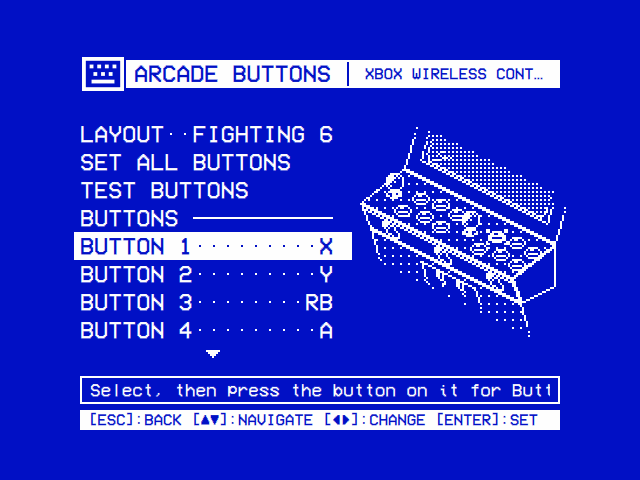
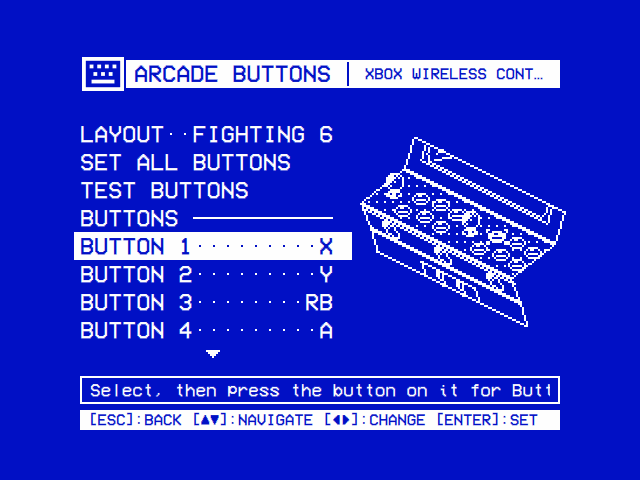
feat: Arcade Buttons draws the cabinet in plain lines, without the fade
The Arcade Buttons drawing faded the cabinet out above and below the
panel in a dither, filled the screen's glass with dotted lines and the
cabinet's front with dots, and drew the panel's right end as a wedge.
The cabinet is now plain line art: the foot of the monitor and the front
under the panel are drawn whole and outlined, 14 cells of each, without
the fade or the dots, and the panel's right end is left open. The
drawing is 103 by 95 cells.

The two Arcade Buttons screenshots are retaken; Controls and ARCHITECTURE
no longer describe the fade.

diff --git a/views/Components/ArcadePanelArt.js b/views/Components/ArcadePanelArt.js
@@ -9,9 +9,8 @@
 // front leans back as it goes down: on it, below a chrome strip, three round
 // buttons, 1P START, COIN and 2P START. Behind the panel the monitor leans
 // back, its bezel round the foot of the screen; under it the cabinet's front,
-// leaning back too, goes down past the top of the coin door. The cabinet
-// fades out above and below. One player's side can be lit: a button, COIN or
-// that player's START.
+// leaning back too, goes down past the top of the coin door. One player's
+// side can be lit: a button, COIN or that player's START.
 //
 // draw() lays it out on a grid of cells, one art pixel each: 0 for none
 // (the ground the host draws on shows), 1 for ink, 2 for the ground drawn
@@ -21,14 +20,14 @@
 
 // The grid.
 var width = 103
-var height = 105
+var height = 95
 
 // Isometric 2:1: along the panel (u, the players' left to right) a cell
 // down for every two right, into it (v, away from the players) a cell up for
 // every two right, z straight up, all in cells. Origin: the panel top's
 // front left corner.
 var originX = 0
-var originY = 38
+var originY = 33
 
 function project(u, v, z) {
     return { x: originX + 2 * u + 2 * v, y: originY + u - v - (z || 0) }
@@ -48,10 +47,10 @@ var strip = 2
 // (lean units at its top) up from the top's back edge, how high; and the
 // front under the panel, leaning back too (belowLean units at its foot) down
 // from the panel front's foot, how low.
-var above = 20
-var lean = 3.5
-var below = 20
-var belowLean = 2.5
+var above = 14
+var lean = 2.5
+var below = 14
+var belowLean = 1.75
 
 // Where things stand on the top (u, v), from the left end of each player's
 // half of it. The buttons' columns follow the fingers: the first a little
@@ -121,20 +120,15 @@ function buttonAt(player, index) {
     return { u: (player - 1) * playerLength + columns[column], v: rows[index < 3 ? 0 : 1] + bend[column] }
 }
 
-// The cells, and for each of the cabinet's the height it stands at (NaN for
-// the rest), which its fade goes by.
+// The cells.
 function Grid(w, h) {
     this.w = w
     this.h = h
     this.cells = new Uint8Array(w * h)
-    this.height = new Float32Array(w * h).fill(NaN)
 }
-// A cell drawn over is no longer the cabinet's.
 Grid.prototype.set = function(x, y, value) {
-    if (x >= 0 && y >= 0 && x < this.w && y < this.h) {
+    if (x >= 0 && y >= 0 && x < this.w && y < this.h)
         this.cells[y * this.w + x] = value
-        this.height[y * this.w + x] = NaN
-    }
 }
 Grid.prototype.get = function(x, y) {
     return x >= 0 && y >= 0 && x < this.w && y < this.h ? this.cells[y * this.w + x] : 0
@@ -158,17 +152,6 @@ Grid.prototype.edge = function(shape) {
         var cx = x + 0.5, cy = y + 0.5
         return !inside(cx - 1, cy) || !inside(cx + 1, cy) || !inside(cx, cy - 1) || !inside(cx, cy + 1) ? 1 : this.get(x, y)
     }.bind(this))
-}
-// The cells of a shape as the cabinet's, at the heights heightAt(x, y)
-// gives, whatever is drawn in them.
-Grid.prototype.tag = function(shape, heightAt) {
-    var box = shape.box
-    for (var y = Math.max(0, Math.floor(box[1])); y <= Math.min(this.h - 1, Math.ceil(box[3])); y++) {
-        for (var x = Math.max(0, Math.floor(box[0])); x <= Math.min(this.w - 1, Math.ceil(box[2])); x++) {
-            if (shape.inside(x + 0.5, y + 0.5))
-                this.height[y * this.w + x] = heightAt(x + 0.5, y + 0.5)
-        }
-    }
 }
 Grid.prototype.line = function(a, b, value) {
     var x0 = Math.round(a.x), y0 = Math.round(a.y), x1 = Math.round(b.x), y1 = Math.round(b.y)
@@ -239,15 +222,11 @@ function ellipse(cx, cy, rx, ry) {
 // A flat face of the cabinet or the panel across it: from its left end's
 // point p0 (u 0, v, z) along the cabinet (u) and up or down it by dir, t from
 // 0 to 1. at(u, t): where a point of it is on the grid; quad(): a part of
-// it as a shape; heightAt(x, y): the height (z) of the point of it a cell
-// shows.
+// it as a shape.
 function Plane(p0, dir) {
-    var s0 = project(0, p0.v, p0.z)
     var sx = 2 * dir.v, sy = -dir.v - dir.z
     var det = 2 * sy - sx
     this.at = function(u, t) { return project(u, p0.v + t * dir.v, p0.z + t * dir.z) }
-    this.t = function(x, y) { return (2 * (y - s0.y) - (x - s0.x)) / det }
-    this.heightAt = function(x, y) { return p0.z + this.t(x, y) * dir.z }.bind(this)
     this.quad = function(u0, u1, t0, t1) {
         return polygon([this.at(u0, t0), this.at(u1, t0), this.at(u1, t1), this.at(u0, t1)])
     }
@@ -264,8 +243,6 @@ function ground() { return 2 }
 function ink() { return 1 }
 function half(x, y) { return (x + y) % 2 === 0 ? 1 : 2 }
 function sixteenth(x, y) { return x % 4 === 0 && y % 4 === 0 ? 1 : 2 }
-// A lit screen's lines: every other row, every other cell of it.
-function scanlines(x, y) { return y % 2 === 0 && x % 2 === 0 ? 1 : 2 }
 
 // A stick (a Sanwa JLF with its ball top): the dust washer round the
 // shaft, the shaft, the ball.
@@ -344,10 +321,10 @@ var frontOff = discSprite(face, frontRadius, false)
 var frontOn = discSprite(face, frontRadius, true)
 
 // What shows of the cabinet behind and under the panel, each face filled
-// and outlined: the monitor's bezel round the foot of the screen, its lines
-// and a glint on its glass; and the cabinet's front under the panel, down
-// past the top of the coin door with its two coin entries (a bright plate
-// each with the slot in it, the coin return under it).
+// and outlined: the monitor's bezel round the foot of the screen, a glint on
+// its glass; and the cabinet's front under the panel, down past the top of
+// the coin door with its two coin entries (a bright plate each with the slot
+// in it, the coin return under it).
 function drawCabinet(grid) {
     var L = panelLength
     var draw = function(shape, fill) {
@@ -358,17 +335,14 @@ function drawCabinet(grid) {
     var up = function(cells) { return cells / above }
     var down = function(cells) { return cells / below }
 
-    var whole = bezel.quad(0, L, 0, 1)
-    draw(whole, ground)
+    draw(bezel.quad(0, L, 0, 1), ground)
     draw(bezel.quad(3, L - 3, up(6), 1), ground)
     draw(polygon([bezel.at(5, up(7)), bezel.at(L - 5, up(7)), bezel.at(L - 4, up(9.5)), bezel.at(L - 4, 1),
-                  bezel.at(4, 1), bezel.at(4, up(9.5))]), scanlines)
+                  bezel.at(4, 1), bezel.at(4, up(9.5))]), ground)
     grid.line(bezel.at(6, up(9)), bezel.at(9, up(13)), 1)
     grid.line(bezel.at(6, up(12)), bezel.at(7, up(14)), 1)
-    grid.tag(whole, bezel.heightAt)
 
-    var front = low.quad(0, L, 0, 1)
-    draw(front, sixteenth)
+    draw(low.quad(0, L, 0, 1), ground)
     draw(low.quad(L / 2 - 7, L / 2 + 7, down(4.5), 1), ground)
     var entries = [L / 2 - 3.5, L / 2 + 1.5]
     for (var j = 0; j < entries.length; j++) {
@@ -378,25 +352,6 @@ function drawCabinet(grid) {
         var r = low.at(e + 1, down(13))
         var rx = Math.round(r.x), ry = Math.round(r.y)
         grid.set(rx, ry, 1); grid.set(rx + 1, ry, 1); grid.set(rx, ry + 1, 1); grid.set(rx + 1, ry + 1, 1)
-    }
-    grid.tag(front, low.heightAt)
-}
-
-// The cabinet fades out up the bezel and down its front: the higher (or
-// lower) one of its cells, the likelier it is gone, in an even pattern.
-function fade(grid) {
-    var bayer = [[0, 8, 2, 10], [12, 4, 14, 6], [3, 11, 1, 9], [15, 7, 13, 5]]
-    var base = slope * panelDepth
-    var from = base + 10, top = base + above, to = -frontHeight - 10, bottom = -frontHeight - below
-    for (var y = 0; y < grid.h; y++) {
-        for (var x = 0; x < grid.w; x++) {
-            var z = grid.height[y * grid.w + x]
-            if (isNaN(z))
-                continue
-            var keep = z > from ? (top - z) / (top - from) : z < to ? (z - bottom) / (to - bottom) : 1
-            if (bayer[y % 4][x % 4] >= keep * 16)
-                grid.cells[y * grid.w + x] = 0
-        }
     }
 }
 
@@ -408,18 +363,15 @@ function draw(lit, player) {
         on[lit[i]] = true
     var side = player === 2 ? 2 : 1
     var grid = new Grid(width, height)
-    var L = panelLength, D = panelDepth
+    var L = panelLength
     drawCabinet(grid)
 
-    // The panel's front, in shade, with the strip along its top; its right
-    // end, the top's back edge down to the front's foot; the top over them.
+    // The panel's front, in shade, with the strip along its top; the top
+    // over it.
     var front = face.quad(0, L, 0, 1)
     grid.paint(front, ground)
     grid.edge(front)
     grid.line(face.at(0, strip / frontHeight), face.at(L, strip / frontHeight), 1)
-    var end = polygon([face.at(L, 0), deck.at(L, 1), project(L, D, -frontHeight), face.at(L, 1)])
-    grid.paint(end, ground)
-    grid.edge(end)
     var topFace = deck.quad(0, L, 0, 1)
     grid.paint(topFace, sixteenth)
     grid.edge(topFace)
@@ -456,7 +408,6 @@ function draw(lit, player) {
     things.sort(function(a, b) { return (a.at.u - a.at.v) - (b.at.u - b.at.v) })
     for (var t = 0; t < things.length; t++)
         things[t].draw()
-    fade(grid)
 
     // The focus frame round each lit one.
     var gap = 1

diff --git a/docs/wiki/Controls.md b/docs/wiki/Controls.md
@@ -321,7 +321,7 @@ The d-pad is `D-PAD ▲ ▼ ◄ ►` on all of them, the sticks `L STICK` and `R
 
 A pad's own page has **Arcade Buttons**: which of its buttons is each of an arcade cabinet's, **Button 1** to **Button 8**, **Coin** and **Start**. The [Arcade](https://github.com/mehmetraif/OSD-OS/wiki/Arcade#players-and-buttons) module gives each player's to MAME and FinalBurn Neo alike as a game starts, so that a game's button 1 is the same button in both, and on any pad. The joystick is always the D-pad and the left stick.
 
-Beside the lines is a two-player arcade cabinet's control panel, drawn in the theme's two colours with a little of the cabinet round it: on its top each player has a ball-top stick and six buttons in two rows of three that follow the fingers, player 1 on the left and player 2 on the right; its top rises towards the back, and its front leans back as it goes down, with three round buttons on it under a chrome strip: **1P Start**, **Coin** and **2P Start**. Behind it the monitor leans back, its foot showing with the screen's lines, and under it the cabinet's front leans back too as it goes down past the coin door's two coin entries, the cabinet fading out above and below. The line's input is lit and framed on the side of the player the pad plays as (player 2's on the right, any other's on the left; [Players](https://github.com/mehmetraif/OSD-OS/wiki/Controls#players)), Coin in the middle for both; Button 7 and 8 aren't on a six-button panel. Set All lights the one it asks for, and Test Buttons the one the last press is, on a smaller panel (none on a 240-line picture, which has no room for it).
+Beside the lines is a two-player arcade cabinet's control panel, drawn in the theme's two colours with a little of the cabinet round it: on its top each player has a ball-top stick and six buttons in two rows of three that follow the fingers, player 1 on the left and player 2 on the right; its top rises towards the back, and its front leans back as it goes down, with three round buttons on it under a chrome strip: **1P Start**, **Coin** and **2P Start**. Behind it the monitor leans back, its foot showing, and under it the cabinet's front leans back too as it goes down past the coin door's two coin entries. The line's input is lit and framed on the side of the player the pad plays as (player 2's on the right, any other's on the left; [Players](https://github.com/mehmetraif/OSD-OS/wiki/Controls#players)), Coin in the middle for both; Button 7 and 8 aren't on a six-button panel. Set All lights the one it asks for, and Test Buttons the one the last press is, on a smaller panel (none on a 240-line picture, which has no room for it).
 
 | Row | What it does |
 |---|---|

diff --git a/ARCHITECTURE.md b/ARCHITECTURE.md
@@ -1019,7 +1019,7 @@ Pixel-drawn pieces of a deck's on-screen menu, built on `root.px` (one pixel of 
 | `SelectionBox` | The selected line's box: the skin's `selection` picture, or a solid bar. It tells `Main.qml` where it is, for the selector effect (`SelectorFx`); `skinned: false` keeps it a plain bar (the on-screen keyboard's keys). Every selection uses it. |
 | `BackgroundFx` | The background effect in an area (`area`, in screen coordinates), drawn on art pixels on the screen's grid; `OsdGround` places it (see [Effects](#effects)). |
 | `PixelIcon` | A symbol from a small bitmap: `play`, `left`, `up`, `down`, `ff`, `rew`, `pause`, `stop`, `rec`, `eject`, plus the `ok` key and `tape` badges, the `heart` the Arcade screen marks a favourite with and the `search` glass on its Search row, a Wi-Fi network's `lock` and signal (`signal1` to `signal4`, and `signal0`, the bars' feet alone), and the status icons' `bluetooth`, `bluetoothLinked`, `hiscore` (HI), `trophy`, `globe` and `network`. |
-| `ArcadePanel` | A two-player arcade cabinet's control panel, the Arcade Buttons page's: on its top, which rises towards the back, each player's ball-top stick and six buttons in two rows of three, and on its front, which leans back as it goes down, 1P START, COIN and 2P START, with a little of the cabinet above and below it (the foot of the monitor, leaning back, and the top of the coin door) fading out, in two-colour isometric pixel art drawn a cell at a time (`ArcadePanelArt.js`), `cell` screen pixels to a cell (`root.px` unless set); `lit` lists the inputs drawn lit and framed (`1` to `6`, `coin`, `start`) on `player`'s side (2 the right, else the left). |
+| `ArcadePanel` | A two-player arcade cabinet's control panel, the Arcade Buttons page's: on its top, which rises towards the back, each player's ball-top stick and six buttons in two rows of three, and on its front, which leans back as it goes down, 1P START, COIN and 2P START, with a little of the cabinet above and below it (the foot of the monitor, leaning back, and the top of the coin door), in two-colour isometric pixel art drawn a cell at a time (`ArcadePanelArt.js`), `cell` screen pixels to a cell (`root.px` unless set); `lit` lists the inputs drawn lit and framed (`1` to `6`, `coin`, `start`) on `player`'s side (2 the right, else the left). |
 | `OsdTicks` | The segment bar, `||||----`: a tick per filled step and a dash per empty one. The boot screen's progress bar. |
 | `OsdTapeBar` | The tape position bar: a ▼ over the position, a ruled bar filled up to it, and the names of its ends under them: BEGIN and END, or a setting's own (`startText`, `endText`), as Settings' TRANSPARENT … SOLID slider. |
 
